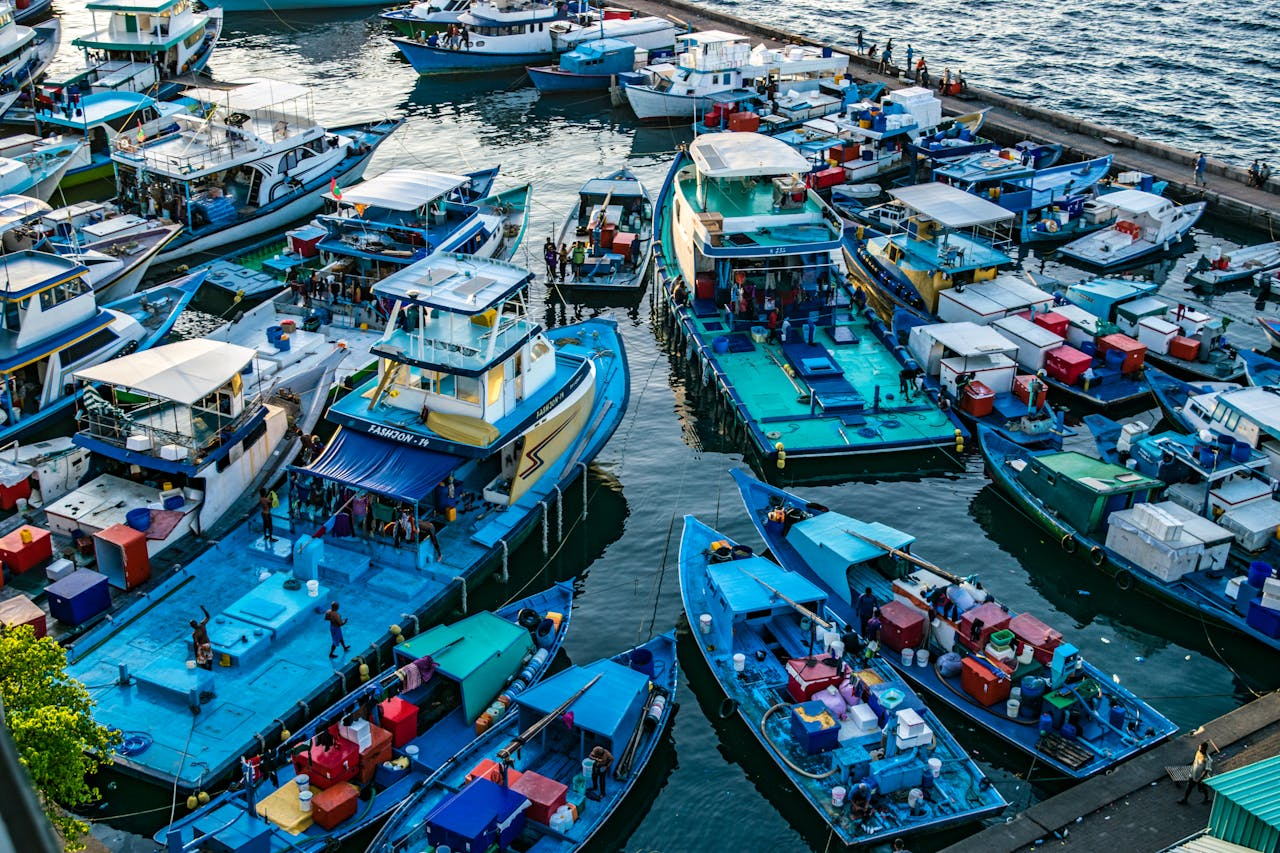
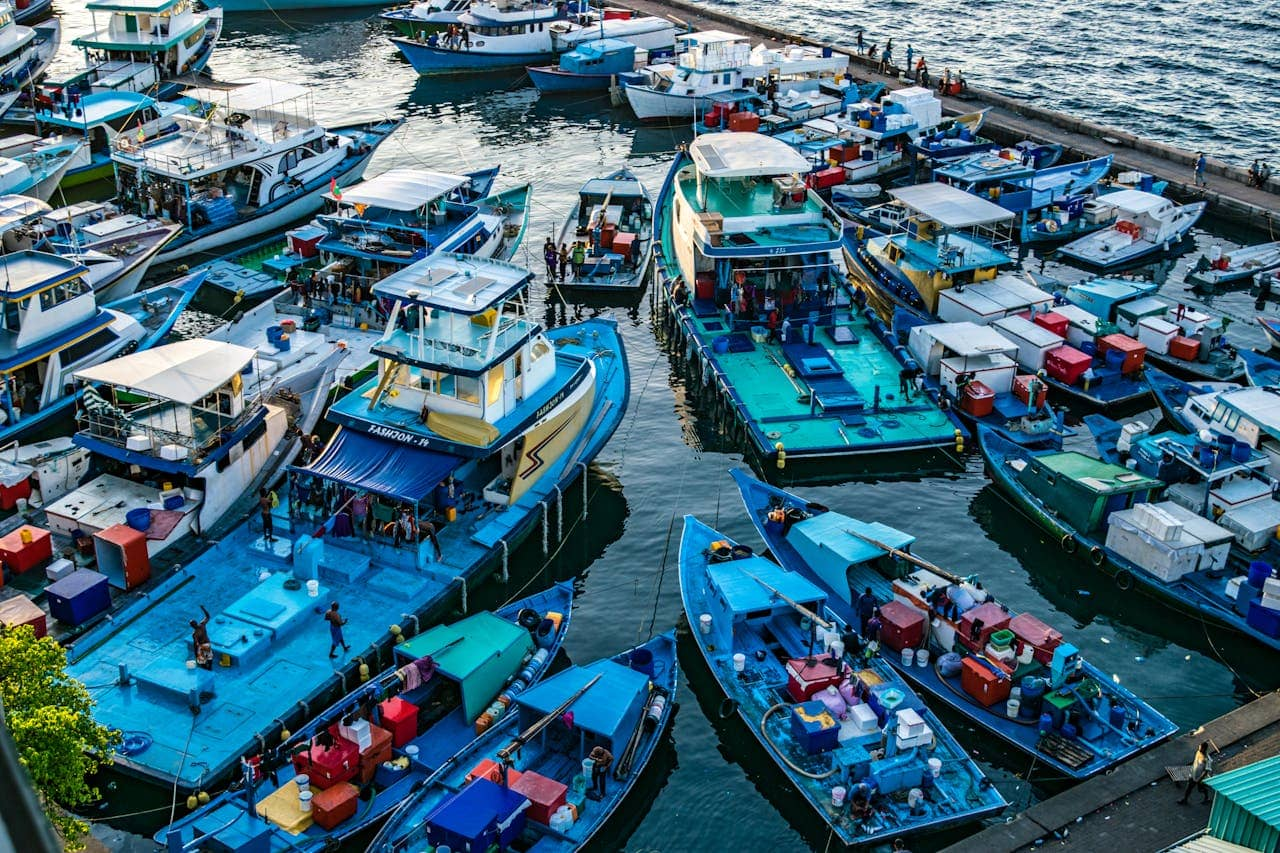
Compress images

diff --git a/src/components/hero/MainHeroSection.jsx b/src/components/hero/MainHeroSection.jsx
@@ -3,7 +3,7 @@ import Slider from 'react-slick';
 import 'slick-carousel/slick/slick.css';
 import 'slick-carousel/slick/slick-theme.css';
 import './HeroSection.css';
-import {t1, t2, t3, t4, t5, t6, t7, t8, t9 } from './index'
+import {t1, t2, t3, t4, t5, t6, t7, t8 } from './index'
 
 
 
@@ -11,7 +11,7 @@ import {t1, t2, t3, t4, t5, t6, t7, t8, t9 } from './index'
 const MainHeroSection = () => {
 
   const carouselImages = [
-    t1, t2, t3, t4, t5, t6, t7, t8, t9
+    t1, t2, t3, t4, t5, t6, t7, t8
   ];
 
   // Settings for the react-slick carousel

diff --git a/src/components/hero/index.jsx b/src/components/hero/index.jsx
@@ -6,6 +6,6 @@ import t5 from "./images/img5.jpg";
 import t6 from "./images/img6.jpg";
 import t7 from "./images/img7.jpg";
 import t8 from "./images/img8.jpg";
-import t9 from "./images/img9.jpg";
 
-export { t1, t2, t3, t4, t5, t6, t7, t8, t9 };
+
+export { t1, t2, t3, t4, t5, t6, t7, t8 };
